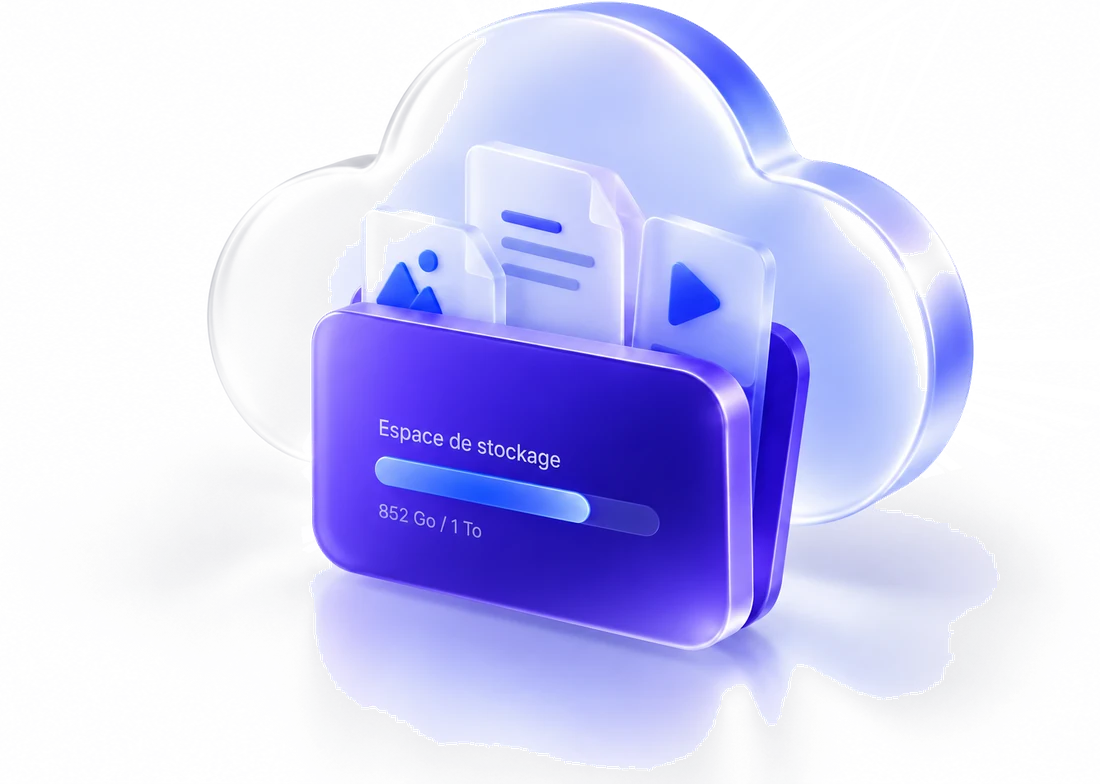
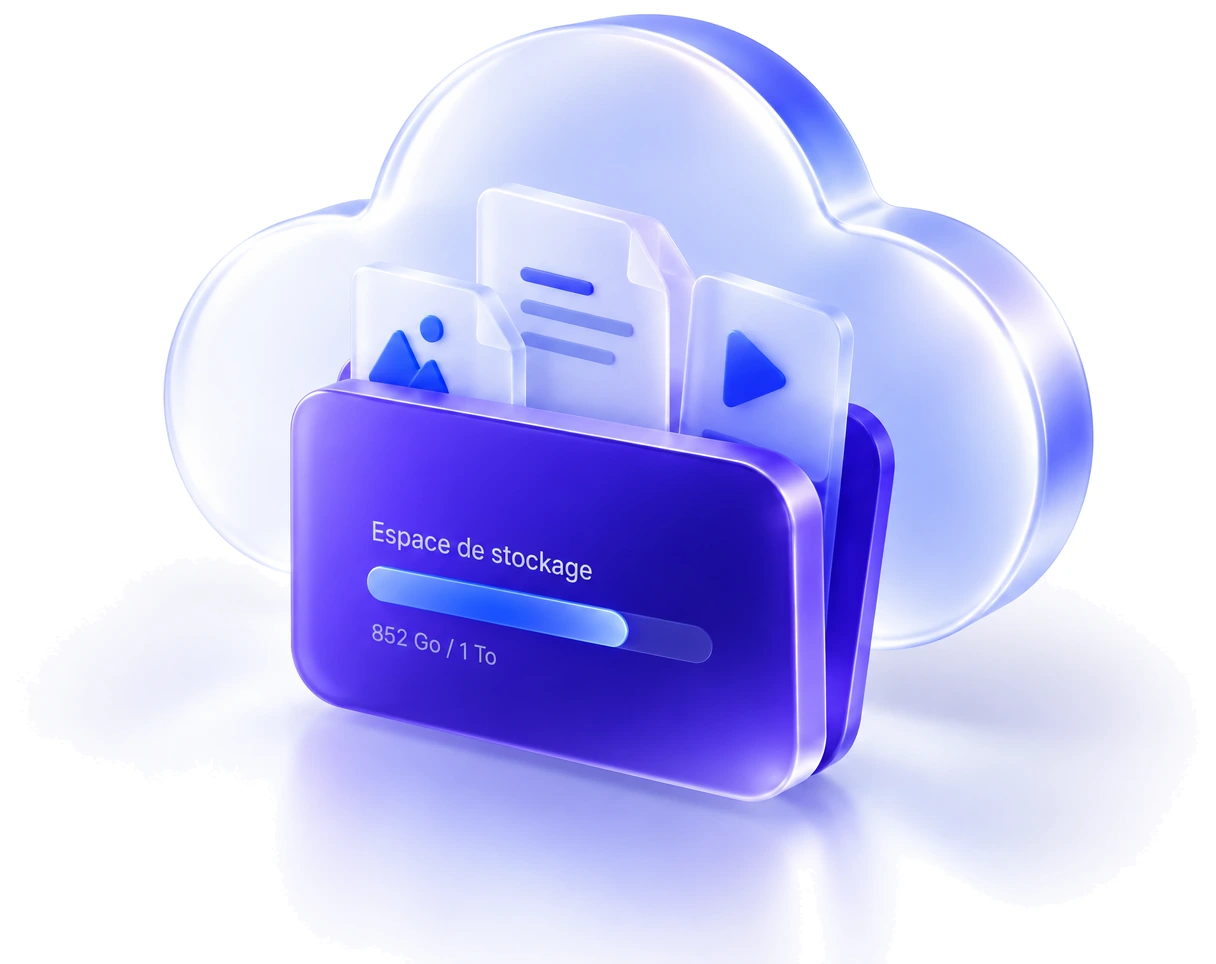
Image stockage : photo laissee intacte
- Plus de detourage : le reflet au sol est teinte bleu-violet et touche le
  bord de l image, le dematage le neutralisait
- Seul le champ blanc plat du pourtour est aligne sur du blanc pur
- Le reste de l image n est pas touche

diff --git a/divprotocol-refonte/index.html b/divprotocol-refonte/index.html
@@ -693,7 +693,7 @@ button{font:inherit;color:inherit;background:none;border:0;cursor:pointer}
       </div>
 
       <figure class="why__v rv d1">
-        <img class="storefig" src="stockage/cloud.webp" width="1100" height="784"
+        <img class="storefig" src="stockage/cloud.webp" width="1216" height="964"
              loading="lazy" decoding="async"
              alt="Un nuage de stockage contenant documents, images et vidéos, avec une carte indiquant l'espace occupé.">
       </figure>
